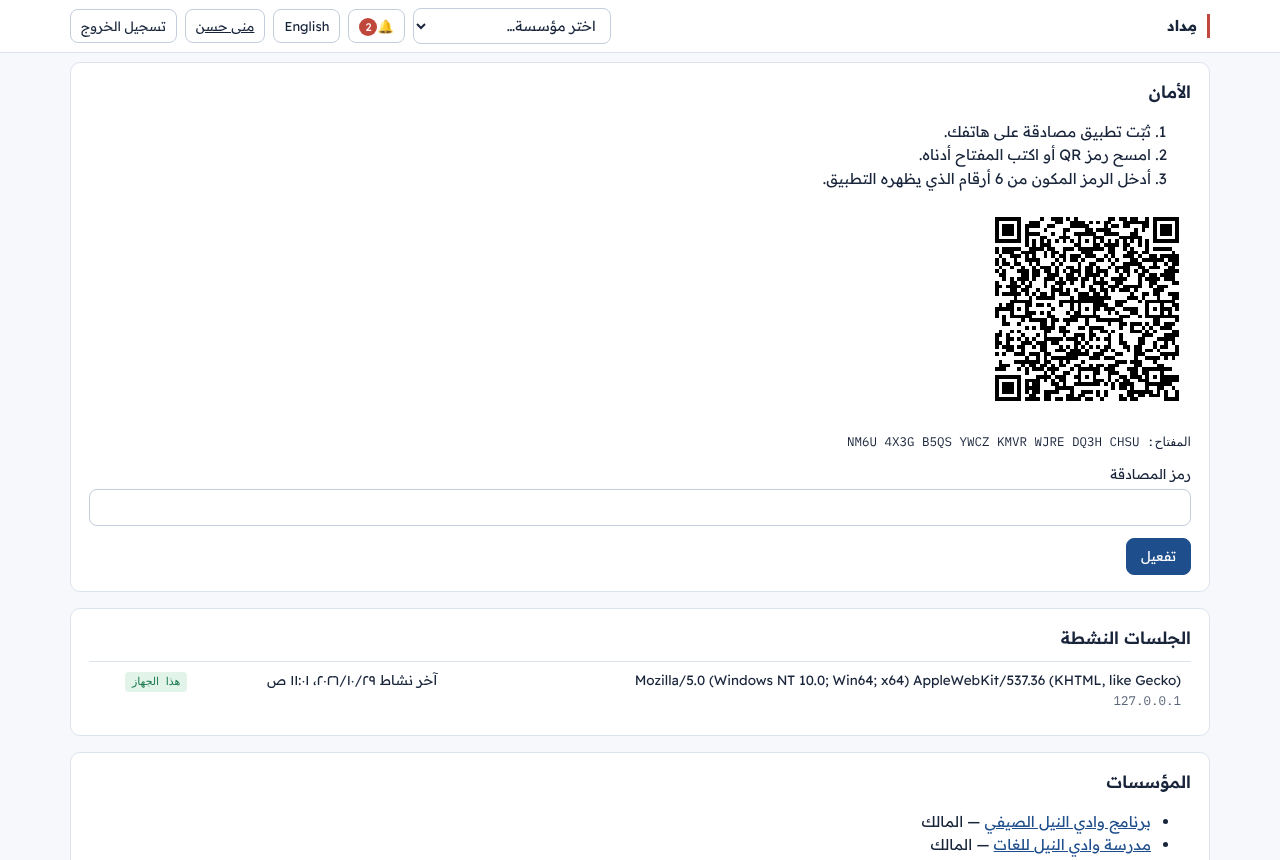
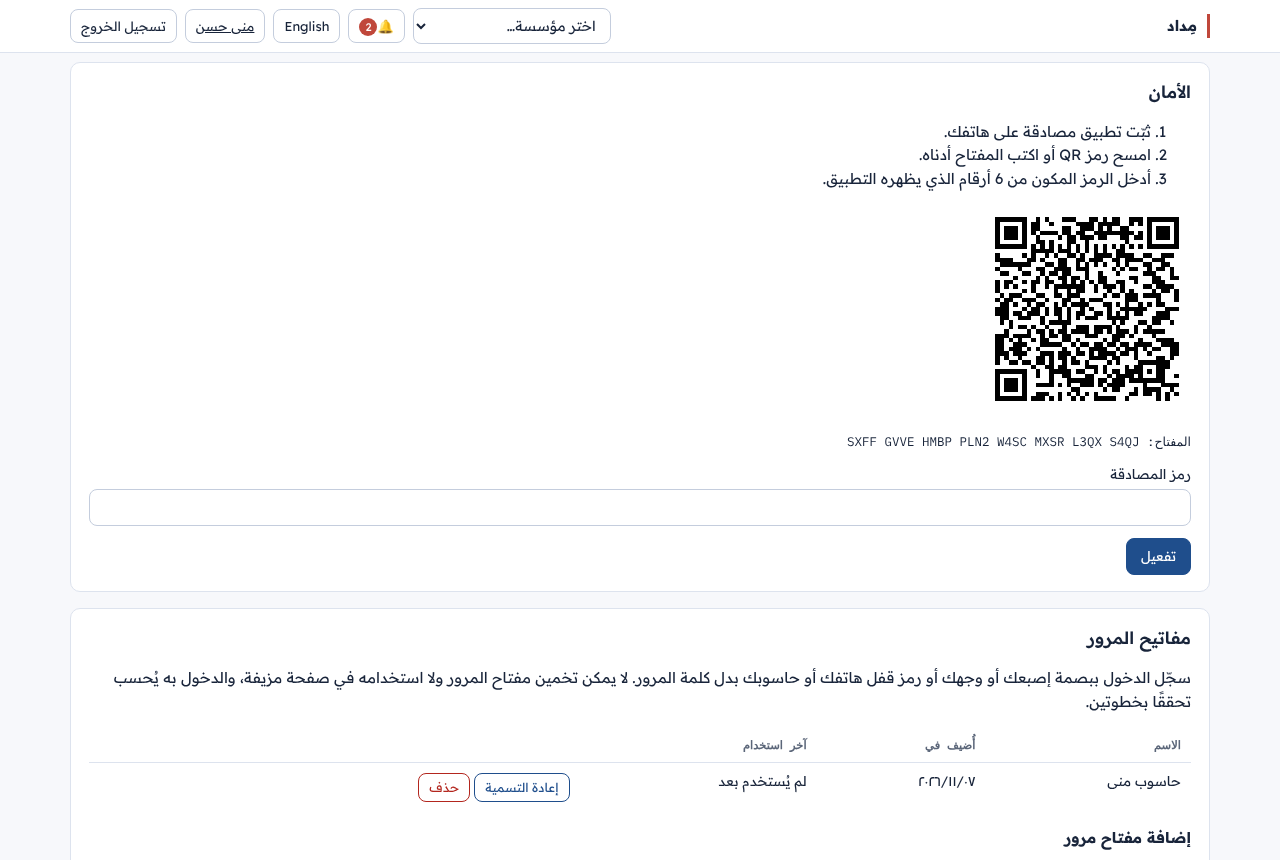
User guides: passkey screenshots (EN/AR)
New account-passkeys.png in both languages, taken with Chromium's
virtual authenticator adding a passkey for the demo owner; sign-in.png
and account-two-factor.png retaken, now with the passkey button and the
Passkeys section. Only these images were replaced.

The Arabic run had been failing at the online test results: the attempt
links' names now hold their visible text, with Arabic-Indic digits, and
the script looked for "1". It now formats the number as the page does.

Claude-Session: https://claude.ai/code/session_01XMDGbpFgE9hcPANKzAeVuG

diff --git a/tests/e2e/user-guide.spec.ts b/tests/e2e/user-guide.spec.ts
@@ -67,7 +67,7 @@ const DEMO = {
     campusB: 'Primary 1–3 core books — Campus B', summerOrg: 'Nile Valley Summer Programme', summerScope: 'Summer reading 2027',
     note1: 'Order 120 copies before September; check the new cover.', note2: 'Waiting for the 2027 edition from the publisher.',
     decree: 'Ministerial Decree 123/2026', publisherSource: 'Publisher catalogue 2027', nextLabel: 'Egypt K-12 curriculum — academic year 2027/2028',
-    keyName: 'Content pipeline', hookDescription: 'Lesson platform: sync selected books', supportReason: 'Ticket 2041: the Grade 2 export looks wrong',
+    passkey: 'Mona’s laptop', keyName: 'Content pipeline', hookDescription: 'Lesson platform: sync selected books', supportReason: 'Ticket 2041: the Grade 2 export looks wrong',
     omar: 'Omar Khaled', laila: 'Laila Mostafa', youssef: 'Youssef Ali', nour: 'Nour Ahmed', hana: 'Hana Samir', adam: 'Adam Tarek',
     className: '1A', hwTitle: 'Read the story “The Little Seed”', hwInstructions: 'Read pages 12 to 15 and answer the three questions at the end.',
     omarAnswer: '1) A seed. 2) Water and sun. 3) It grew into a tree.', hwFeedback: 'Very good. Write full sentences next time.',
@@ -80,7 +80,7 @@ const DEMO = {
     campusB: 'الكتب الأساسية للصفوف 1–3 — الفرع ب', summerOrg: 'برنامج وادي النيل الصيفي', summerScope: 'قراءات صيف 2027',
     note1: 'اطلب 120 نسخة قبل سبتمبر، وراجع الغلاف الجديد.', note2: 'في انتظار طبعة 2027 من الناشر.',
     decree: 'القرار الوزاري 123/2026', publisherSource: 'كتالوج الناشر 2027', nextLabel: 'مناهج مصر من الروضة حتى الثانوي — العام الدراسي 2027/2028',
-    keyName: 'خط إنتاج المحتوى', hookDescription: 'منصة الدروس: مزامنة الكتب المختارة', supportReason: 'تذكرة 2041: تصدير الصف الثاني يبدو خاطئًا',
+    passkey: 'حاسوب منى', keyName: 'خط إنتاج المحتوى', hookDescription: 'منصة الدروس: مزامنة الكتب المختارة', supportReason: 'تذكرة 2041: تصدير الصف الثاني يبدو خاطئًا',
     omar: 'عمر خالد', laila: 'ليلى مصطفى', youssef: 'يوسف علي', nour: 'نور أحمد', hana: 'هنا سمير', adam: 'آدم طارق',
     className: 'الأول أ', hwTitle: 'اقرأ قصة «البذرة الصغيرة»', hwInstructions: 'اقرأ الصفحات من 12 إلى 15 وأجب عن الأسئلة الثلاثة في آخرها.',
     omarAnswer: '1) بذرة. 2) الماء والشمس. 3) صارت شجرة.', hwFeedback: 'أحسنت. اكتب جملًا كاملة في المرة القادمة.',
@@ -683,7 +683,7 @@ test('user guide screenshots', async ({ browser }) => {
   await shot(karim, 'test-results');
   for (const [name, points, feedback] of [[DEMO.hana, '2', ''], [DEMO.omar, '2.5', DEMO.testFeedback]] as const) {
     await karim.goto(`${testPath}/results`);
-    await karim.getByRole('link', { name: L('tests.attemptOf', { n: 1, name }) }).click();
+    await karim.getByRole('link', { name: L('tests.attemptOf', { n: fmt(1), name }) }).click();
     await karim.getByLabel(L('tests.markOutOf', { max: fmt(3) })).fill(points);
     if (feedback) await karim.getByLabel(L('hw.feedback')).nth(2).fill(feedback);
     if (name === DEMO.omar) await shot(karim, 'test-attempt', undefined, { fullPage: true });
@@ -765,6 +765,20 @@ test('user guide screenshots', async ({ browser }) => {
   await mona.goto('/account');
   await expect(mona.getByRole('heading', { name: L('account.title'), level: 1 })).toBeVisible();
   await shot(mona, 'account');
+  // A passkey, with Chromium's virtual authenticator standing in for the fingerprint or face check.
+  const cdp = await mona.context().newCDPSession(mona);
+  await cdp.send('WebAuthn.enable');
+  const { authenticatorId } = await cdp.send('WebAuthn.addVirtualAuthenticator', {
+    options: { protocol: 'ctap2', transport: 'internal', hasResidentKey: true, hasUserVerification: true, isUserVerified: true, automaticPresenceSimulation: true },
+  });
+  const passkeys = mona.locator('#passkeys');
+  await passkeys.getByLabel(field('passkeys.name')).fill(DEMO.passkey);
+  await passkeys.getByLabel(field('auth.password')).fill(PASSWORD);
+  await passkeys.getByRole('button', { name: L('passkeys.add') }).click();
+  await expect(passkeys.getByRole('cell', { name: DEMO.passkey, exact: true })).toBeVisible();
+  await passkeys.scrollIntoViewIfNeeded();
+  await shot(mona, 'account-passkeys', passkeys, { pad: 16 });
+  await cdp.send('WebAuthn.removeVirtualAuthenticator', { authenticatorId });
   await mona.getByRole('button', { name: L('mfa.setup') }).click();
   await expect(mona.getByRole('img', { name: L('mfa.qrAlt') })).toBeVisible();
   await scrollTo(mona, mona.getByRole('img', { name: L('mfa.qrAlt') }), 160);

diff --git a/docs/USER_GUIDE.ar.md b/docs/USER_GUIDE.ar.md
@@ -587,6 +587,8 @@
 
 - «**مفاتيح المرور**»: سجّل الدخول ببصمة إصبعك أو وجهك أو رمز قفل جهازك بدل كلمة المرور. سمِّ المفتاح (مثل «حاسوب العمل»)، واكتب كلمة المرور، ثم اختر «**إضافة مفتاح مرور**»، فيطلب منك المتصفح أو الهاتف التأكيد. تصلك رسالة بريد كلما أُضيف مفتاح. تعرض القائمة تاريخ إضافة كل مفتاح وآخر استخدام له، مع «**إعادة التسمية**» و«**حذف**». الحذف هنا يمنع المفتاح من تسجيل الدخول، فاحذفه من الجهاز أيضًا. الحد 10 مفاتيح، وحسابات الطلاب ليس لها مفاتيح مرور.
 
+  ![مفاتيح المرور في صفحة الحساب: القائمة مع «إعادة التسمية» و«حذف»، وإضافة مفتاح مرور باسمه وكلمة المرور](user-guide/images-ar/account-passkeys.png)
+
 - «**الجلسات النشطة**»: الأجهزة التي سجّلت منها الدخول، مع تسجيل الخروج من كل منها، و«**تسجيل الخروج من كل الجلسات الأخرى**».
 - «**المؤسسات**»: مؤسساتك ودورك فيها، و«**إنشاء مؤسسة**».
 - «**بياناتك**»: «**تنزيل بياناتي (JSON)**» (ملفك وعضوياتك وجلساتك وإشعاراتك ونشاطك الأخير)، و«**حذف حسابي**» بعد نقل ملكية المؤسسات التي تملكها أو حذفها.

diff --git a/docs/TEST_REPORT.md b/docs/TEST_REPORT.md
@@ -873,6 +873,13 @@ Not done: P-3 (reconciliation). Paymob's documentation hosts (`developers.paymob
 | Route reviews (`authz-coverage.test.ts`, `students.test.ts`) | The seven passkey routes are listed: the two sign-in routes as public, the rest as the account's own; a signed-in student gets 403 `STAFF_ONLY` from each of those | Pass |
 | Whole suite | `npm run lint`, `npm run typecheck`, `npm run build`; `npm test` 73 files, 537 tests; E2E in Chromium (Playwright 1.56.1), journeys and accessibility, 32 tests; journeys in Firefox and WebKit, 27 tests each (the passkey journey skipped) | Pass |
 
+### User guide screenshots: passkeys (2026-11-07)
+
+| Check | Result |
+| --- | --- |
+| `npm run docs:screenshots` and `docs:screenshots:ar` (Chromium's virtual authenticator adds Mona's passkey) | New `account-passkeys.png` in both languages; `sign-in.png` and `account-two-factor.png` retaken (passkey button; Passkeys section below the two-step setup). The other screenshots were not replaced | Pass |
+| The Arabic run, before the fix | Failed at the online test results: since the attempt links' names were made to hold their visible text (Arabic-Indic digits, «المحاولة ١ للطالب …»), the script still looked for "المحاولة 1". It now formats the number as the page does | Fixed |
+
 ### CI time limits (2026-11-07)
 
 | Check | Result |

diff --git a/docs/PROJECT_STATUS.md b/docs/PROJECT_STATUS.md
@@ -39,8 +39,9 @@ Status values: COMPLETE · PARTIALLY COMPLETE · NOT STARTED · BLOCKED · NOT V
   on the device, the signature, the account the device names, and the signature counter.
 - **Built with:** `@simplewebauthn/server` 14.0.3 (pinned); migration 0025 (`passkeys`, `webauthn_challenges`).
   The account export lists passkeys by name.
-- **Not done:** SSO (needs the owner's choice of identity providers). The user guides' text describes passkeys; their
-  screenshots of the account and sign-in pages predate the new section and button.
+- **Not done:** SSO (needs the owner's choice of identity providers).
+- **User guides (2026-11-07):** new screenshot of the Passkeys section, and the sign-in and two-step screenshots
+  retaken with the passkey button and section, in English and Arabic (`npm run docs:screenshots`, `:ar`).
 
 ### Secrets in files: Docker secrets (roadmap Phase 7) · COMPLETE (2026-11-06)
 - **Any secret setting from a file:** each secret setting can be given as `<NAME>_FILE`, the path of a file that

diff --git a/docs/USER_GUIDE.md b/docs/USER_GUIDE.md
@@ -891,6 +891,8 @@ Click your name in the top bar.
   was added and last used; **Rename** and **Remove** each. Removing it here
   stops it signing in; delete it on the device too. Up to 10. Student
   accounts do not have passkeys.
+
+  ![Passkeys on the account page: the list with Rename and Remove, and Add a passkey with its name and your password](user-guide/images/account-passkeys.png)
 - **Active sessions**: where you are signed in, with **Sign out** for each
   and **Sign out all other sessions**.
 - **Organizations**: yours, with your role, and **Create organization**.
